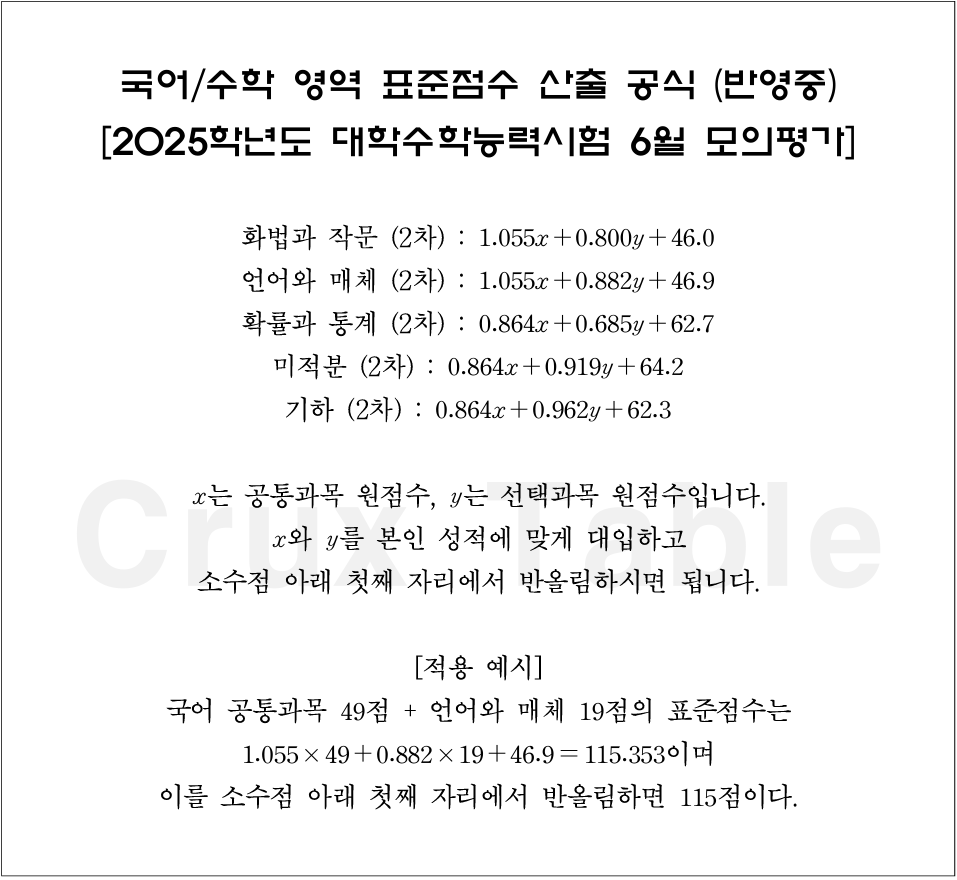
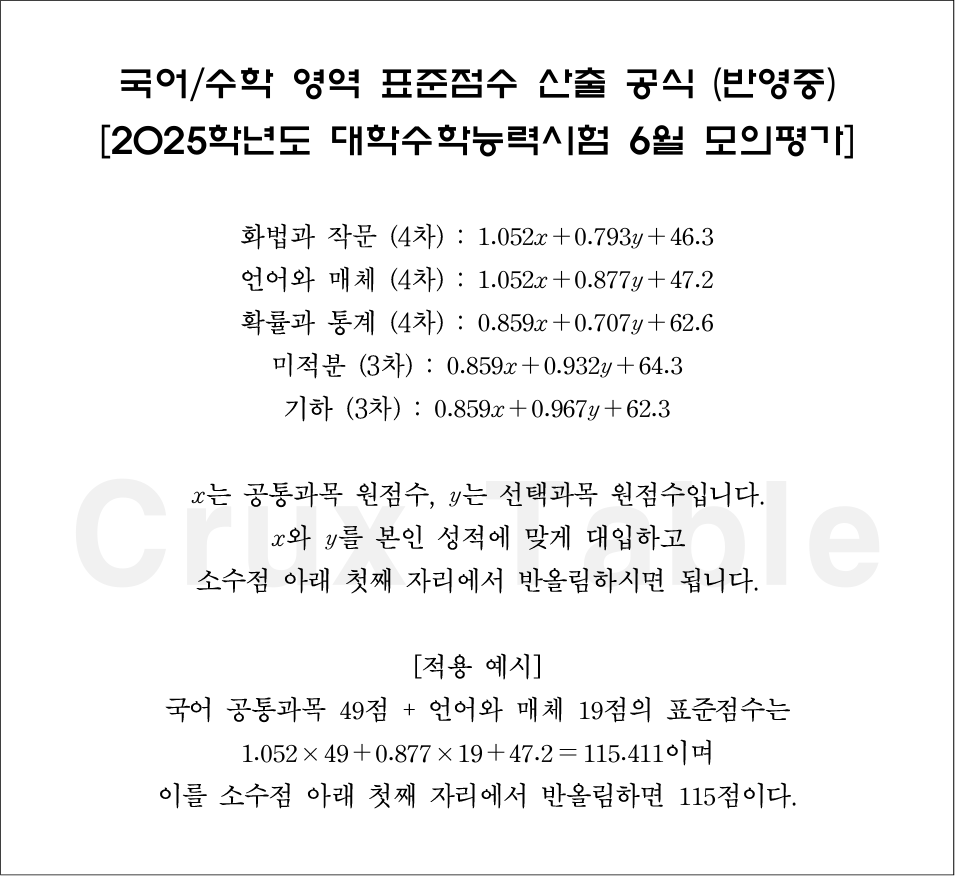
202506sat

diff --git a/js/data.js b/js/data.js
@@ -4212,8 +4212,8 @@ let data = {
     "20256sat": {
         "국어": [
             {
-                "화법과 작문" : [1.053, 0.800, 46.1],
-                "언어와 매체" : [1.053, 0.879, 47.1]
+                "화법과 작문" : [1.052, 0.793, 46.3],
+                "언어와 매체" : [1.052, 0.877, 47.2]
             },
 ["148", "100", "1"],
 ["146", "100", "1"],
@@ -4320,9 +4320,9 @@ let data = {
 ],
 "수학": [
     {
-        "확률과 통계" : [0.864, 0.692, 62.6],
-        "미적분" : [0.864, 0.919, 64.2],
-        "기하" : [0.864, 0.962, 62.3]
+        "확률과 통계" : [0.859, 0.707, 62.6],
+        "미적분" : [0.859, 0.932, 64.3],
+        "기하" : [0.859, 0.967, 62.3]
     },
 ["152", "100", "1"],
 ["151", "100", "1"],
